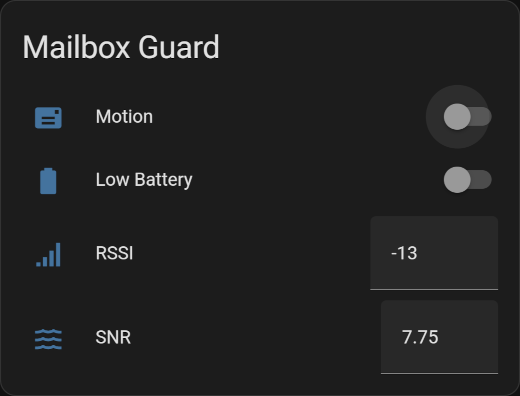
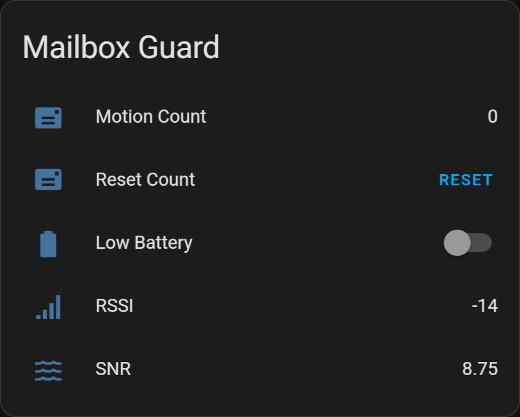
Update HARestAPI example

diff --git a/README.md b/README.md
@@ -302,10 +302,51 @@ input_number:
   mode: single
 ```
 
+- Dashboard card
+
+```yaml
+type: entities
+title: Mailbox Guard
+show_header_toggle: false
+entities:
+  - type: conditional
+    conditions: []
+    row:
+      type: sensor-entity
+      entity: input_number.mailbox_guard_count
+      name: Motion Count
+  - type: button
+    icon: mdi:mail
+    name: Reset Count
+    action_name: RESET
+    tap_action:
+      action: call-service
+      service: input_number.set_value
+      data:
+        entity_id: input_number.mailbox_guard_count
+        value: 0
+  - entity: input_boolean.mailbox_guard_low_battery
+    name: Low Battery
+  - type: conditional
+    conditions: []
+    row:
+      type: sensor-entity
+      entity: input_number.mailbox_guard_rssi
+      name: RSSI
+  - type: conditional
+    conditions: []
+    row:
+      type: sensor-entity
+      entity: input_number.mailbox_guard_snr
+      name: SNR
+```
+
 ### MailBox Guard motion detection events
 
-1. Your phone receives a notification from HA
-2. The MailBox Guard switch will turn on
-3. Turn the switch off to manually reset
+1. Your phone receives a notification from HA `You've Got Mail!`
+2. The MailBox Guard will add a count to the `Motion Count`
+3. When you fetch the mail select the `RESET` button
+
+![](/img/HARestAPI_Notify.png)
 
 ![](/img/HARestAPI.png)
